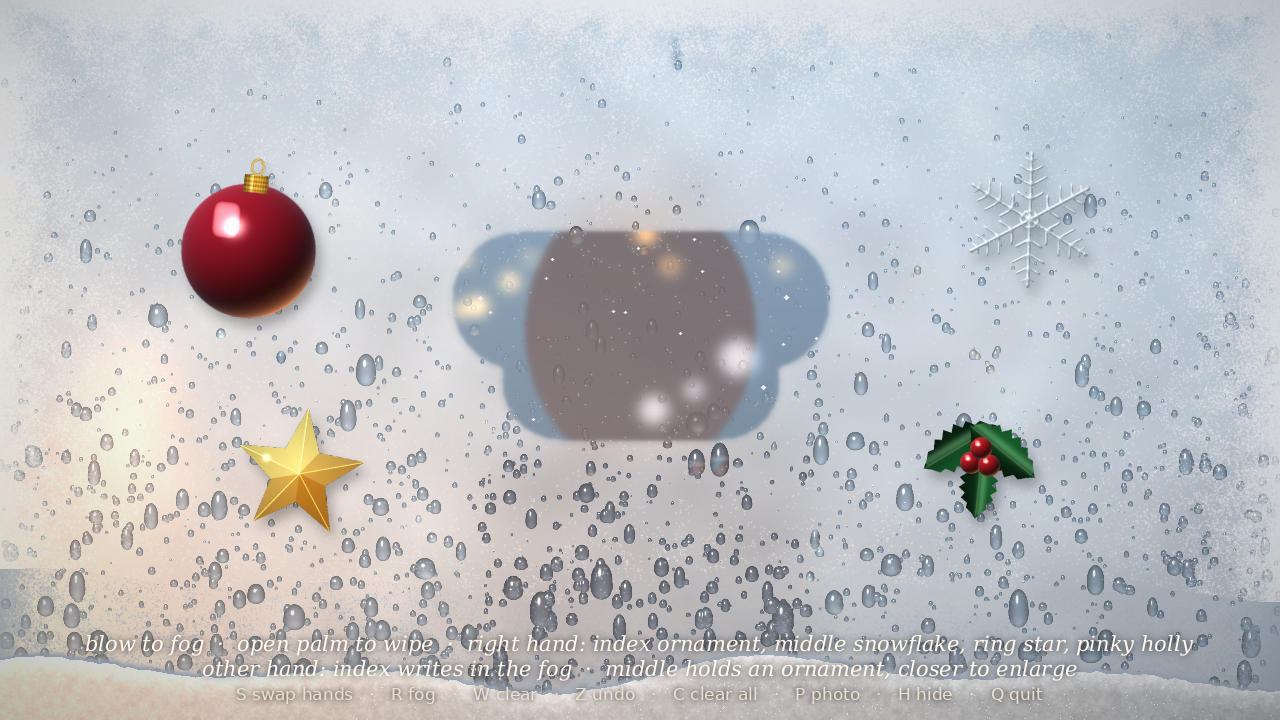
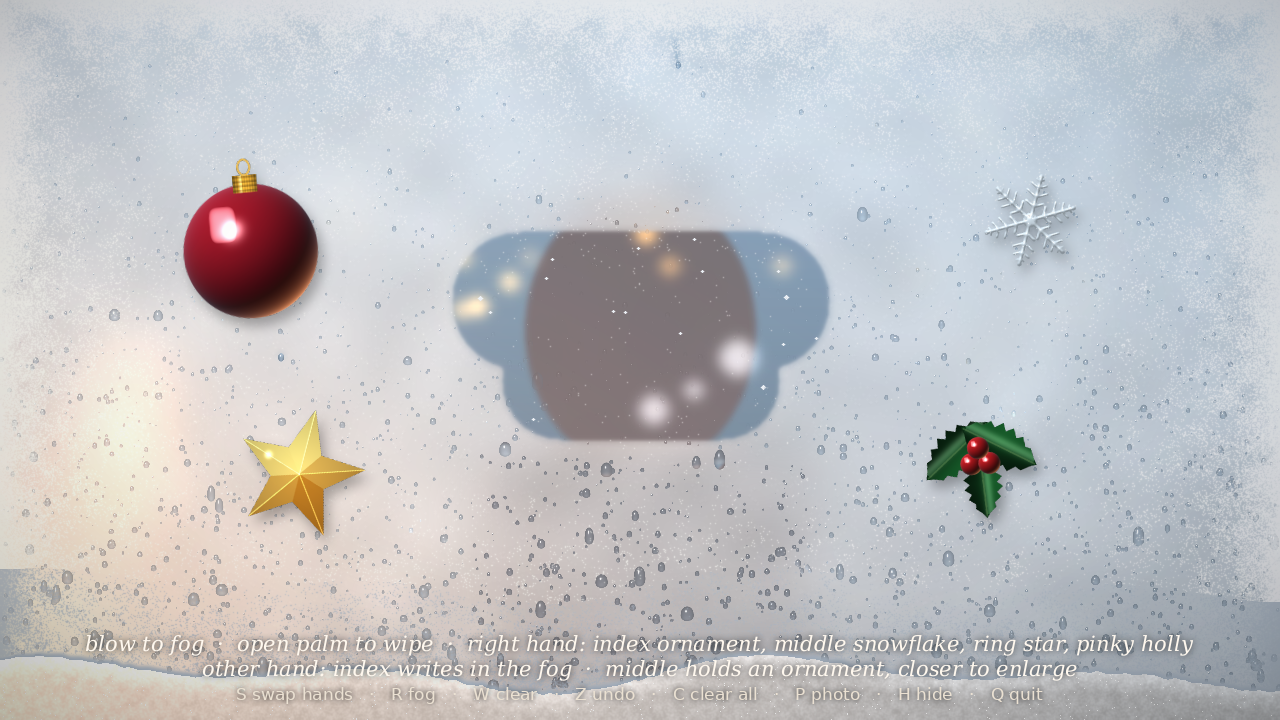
Fog window: smaller, subtler water droplets and a smaller snowflake
Claude-Session: https://claude.ai/code/session_019yix4LbbPeZBqf3j11t9fP

diff --git a/christmas-fog-window/droplets.py b/christmas-fog-window/droplets.py
@@ -26,7 +26,7 @@ def _shade(height, scale):
     rim = (1 - nz) ** 1.3 * inside                         # steep edges are dark
     spec = np.clip(nx * HALF[0] + ny * HALF[1] + nz * HALF[2], 0, 1) ** 60 * inside
     caustic = np.clip(ny, 0, 1) ** 2 * inside * (1 - rim)  # light focused at the bottom of the drop
-    mul = (1.02 - 0.42 * rim + 0.3 * caustic) * inside
+    mul = (1.02 - 0.26 * rim + 0.18 * caustic) * inside
     return mul, spec, caustic
 
 
@@ -35,7 +35,7 @@ class Droplets:
         self.w, self.h = w, h
         rng = np.random.default_rng(seed)
         self.rnd = random.Random(seed)
-        count = count or int(w * h / 380)
+        count = count or int(w * h / 260)
 
         height = np.zeros((h, w), np.float32)
         alpha = np.zeros((h, w), np.float32)
@@ -45,10 +45,10 @@ class Droplets:
         for _ in range(count):
             y = h * rng.beta(1.7, 1.1)                  # more (and bigger) drops lower on the glass
             x = rng.uniform(0, w)
-            r = float(np.clip(rng.lognormal(math.log(0.9 + 2.8 * y / h), 0.55), 0.6, 11))
+            r = float(np.clip(rng.lognormal(math.log(0.55 + 1.5 * y / h), 0.5), 0.45, 6.5))
             rx, ry = r * rng.uniform(0.85, 1.05), r * rng.uniform(1.0, 1.3)
             cy = y
-            if r > 5 and rng.random() < 0.35:            # some heavy drops sag into a teardrop
+            if r > 4 and rng.random() < 0.25:            # some heavy drops sag into a teardrop
                 ry *= 1.5
             x0, x1 = int(max(x - rx - 2, 0)), int(min(x + rx + 3, w))
             y0, y1 = int(max(cy - ry - 2, 0)), int(min(cy + ry + 3, h))
@@ -70,7 +70,7 @@ class Droplets:
         warm = warm_map[..., None]
         hl = np.float32([255, 248, 240]) * (1 - 0.3 * warm) + np.float32([120, 200, 255]) * 0.5 * warm
         self.mul = np.clip(np.repeat(mul[..., None], 3, axis=2) * 160, 0, 255).astype(np.uint8)
-        self.add = np.clip(spec[..., None] * hl * 1.1 + caustic[..., None] * 30, 0, 255).astype(np.uint8)
+        self.add = np.clip(spec[..., None] * hl * 0.8 + caustic[..., None] * 18, 0, 255).astype(np.uint8)
         self.alpha = alpha
         self.map_x, self.map_y = map_x, map_y
         self.runners = []
@@ -82,7 +82,7 @@ class Droplets:
             x = self.rnd.uniform(x1 + 20, x2 - 20)
             y = self.rnd.uniform(y1 + 20, y1 + (y2 - y1) * 0.6)
             if fog.value_at(x, y) > 0.6:
-                self.runners.append({"x": x, "y": y, "r": self.rnd.uniform(3.5, 6.5), "v": 0.0,
+                self.runners.append({"x": x, "y": y, "r": self.rnd.uniform(2.5, 4.2), "v": 0.0,
                                      "stop": self.rnd.uniform(y + 80, y2 + 40), "ph": self.rnd.uniform(0, 6)})
         alive = []
         for d in self.runners:
@@ -112,7 +112,7 @@ class Droplets:
         sx = np.clip(x - (xx - x) * 2.2, 0, self.w - 1)
         sy = np.clip(y - (yy - y) * 2.2 - r * 1.5, 0, self.h - 1)
         refr = cv2.remap(src, sx, sy, cv2.INTER_LINEAR).astype(np.float32)
-        col = refr * mul[..., None] + spec[..., None] * 280 + caustic[..., None] * 30
+        col = refr * mul[..., None] + spec[..., None] * 200 + caustic[..., None] * 18
         roi = out[y0:y1, x0:x1].astype(np.float32)
         out[y0:y1, x0:x1] = np.clip(roi * (1 - a) + col * a, 0, 255).astype(np.uint8)
 
@@ -122,7 +122,7 @@ class Droplets:
         src = cv2.addWeighted(clear, 0.62, fogged, 0.38, 0)   # drops on fogged glass look a little milky
         refr = cv2.remap(src, self.map_x, self.map_y, cv2.INTER_LINEAR, borderMode=cv2.BORDER_REFLECT)
         col = cv2.add(cv2.multiply(refr, self.mul, scale=1 / 160), self.add)
-        a = self.alpha * (0.3 + 0.7 * fog_m)               # wiping clears most drops away
+        a = self.alpha * (0.2 + 0.6 * fog_m)               # wiping clears most drops away
         out = cv2.blendLinear(fogged, col, 1 - a, a)
         for d in self.runners:
             self._draw_runner(out, clear, d)

diff --git a/christmas-fog-window/stickers.py b/christmas-fog-window/stickers.py
@@ -85,7 +85,7 @@ def bauble():
 def snowflake():
     canvas = np.zeros((SIZE, SIZE), np.float32)
     c = np.array([SIZE / 2, SIZE / 2])
-    Rm = SIZE * 0.44
+    Rm = SIZE * 0.3
 
     def seg(p, q, th):
         cv2.line(canvas, (int(p[0]), int(p[1])), (int(q[0]), int(q[1])), 1.0, max(1, int(th)), cv2.LINE_AA)
